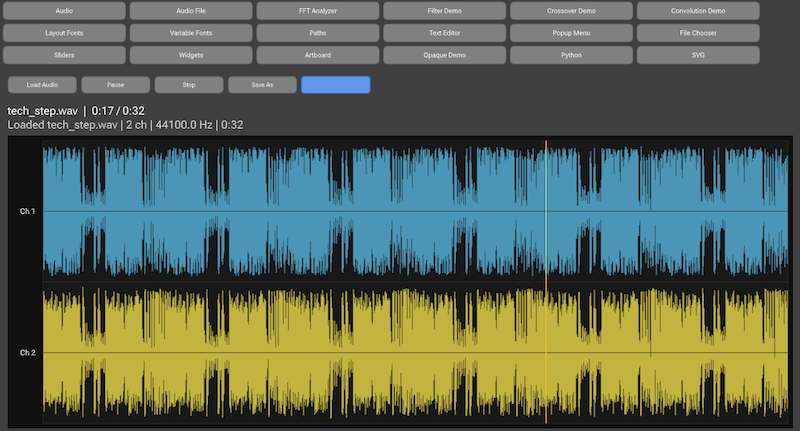
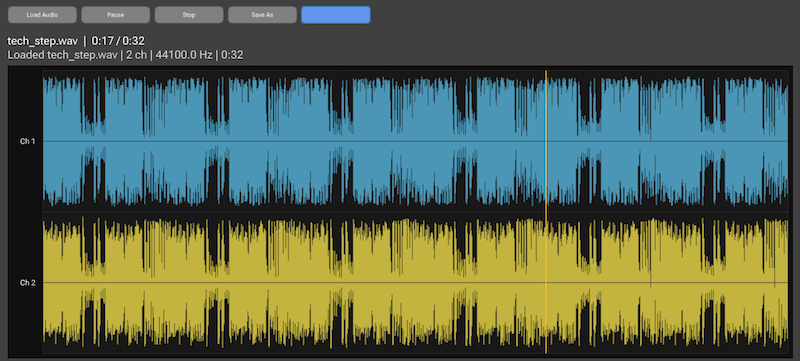
More tweaks

diff --git a/README.md b/README.md
@@ -19,8 +19,8 @@
 </div>
 
 <div style="display: flex; width: 100%; flex-wrap: nowrap;">
-  <a href="./examples/graphics/source/examples/ColorLab.h"><img src="./docs/images/yup_gradient_editor.png" style="width:47.47%;" /></a>
-  <a href="./examples/graphics/source/examples/ColorLab.h"><img src="./docs/images/yup_color_picker.png" style="width:52.53%;" /></a>
+  <a href="./examples/graphics/source/examples/ColorLab.h"><img src="./docs/images/yup_gradient_editor.png" style="width:46.8%;" /></a>
+  <a href="./examples/graphics/source/examples/ColorLab.h"><img src="./docs/images/yup_color_picker.png" style="width:51.8%;" /></a>
 </div>
 
 <div style="display: flex; width: 100%; flex-wrap: nowrap;">
